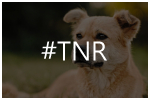
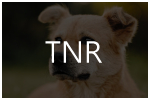
add bottun of top, remove hash tage in homepage

diff --git a/final/index.html b/final/index.html
@@ -18,24 +18,24 @@
 					<ul class="slides">
 						<li data-thumb="images/dog01@thumb">
 							<a href="page.html#about"><img src="images/dog01.jpg" /></a>
-							<a href="page.html#about"><h2 class="flex-caption">#關於交大汪汪社</h2></a>
+							<a href="page.html#about"><h2 class="flex-caption">關於交大汪汪社的二三事</h2></a>
 						</li>
 						<li data-thumb="images/dog02@thumb">
 							<a href="page.html#TNR"><img src="images/dog02.jpg" /></a>
-							<a href="page.html#TNR"><h2 class="flex-caption">#TNR</h2></a>
+							<a href="page.html#TNR"><h2 class="flex-caption">想了解何謂 TNR 嗎？</h2></a>
 						</li>
 						<li data-thumb="images/dog03@thumb">
 							<a href="page.html#postcard"><img src="images/dog03.jpg" /></a>
-							<a href="page.html#postcard"><h2 class="flex-caption">#明信片</h2></a>
+							<a href="page.html#postcard"><h2 class="flex-caption">來看看歷年的明信片吧</h2></a>
 						</li>
 						<li data-thumb="images/dog04@thumb">
 							<a href="page.html#souvenir"><img src="images/dog04.jpg" /></a>
-							<a href="page.html#souvenir"><h2 class="flex-caption">#紀念品</h2></a>
+							<a href="page.html#souvenir"><h2 class="flex-caption">各種紀念品</h2></a>
 						</li>
 					</ul>
 				</div>
 			</div>
-			<p>Click to Enter</p>
+			<p>Copyright&copy; 2016 NCTU Dogs All rights reserved.</p>
 		</section>
 		<div class="background"></div>
 	</body>

diff --git a/final/css/page.css b/final/css/page.css
@@ -6,6 +6,7 @@
     line-height: 36px;
     -webkit-box-sizing: border-box;
     box-sizing: border-box;
+    text-decoration: none;
 }
 
 h1 {
@@ -30,8 +31,8 @@ section {
 
 .icon {
     margin-left: 15px;
-    -webkit-filter:invert(100%);
-    filter:invert(100%);
+    -webkit-filter:invert(60%);
+    filter:invert(60%);
     width: 40px;
     border: 1px solid #1e1e1e;
     border-radius: 20px;
@@ -39,8 +40,8 @@ section {
 }
 
 .icon:hover {
-    -webkit-filter:invert(0%);
-    filter:invert(0%);
+    -webkit-filter:invert(100%);
+    filter:invert(100%);
 }
 
 .title {
@@ -102,10 +103,17 @@ ul {
     width: 100%;
 }
 
-.box img {
+.box a img {
     border-radius: 100px;
     margin: 20px 20px 0 0;
     border: 2px solid #FFF;
+    -webkit-filter:opacity(60%);
+    filter:opacity(60%);
+}
+
+.box a img:hover {
+    -webkit-filter:opacity(100%);
+    filter:opacity(100%);
 }
 
 article {
@@ -123,7 +131,6 @@ article {
 .box article img {
     width: 100%;
     margin: 0;
-    border-radius: 10px;
 }
 
 .box article h2 {
@@ -272,4 +279,17 @@ article {
 footer p {
     text-align:center;
     color:#FFF;
+    font-size: 10px;
+}
+
+.top {
+    position:relative;
+    border-bottom: 1px solid #FFF;
+    z-index:200;
+}
+
+.top:hover {
+    color:#b3ff66;
+    cursor:pointer;
+    font-size:16px;
 }

diff --git a/final/js/page.js b/final/js/page.js
@@ -21,6 +21,9 @@ $(document).ready(function() {
         $("html, body").animate({scrollTop: top_s}, 1000);
         menu_toggle();
     });
+    $(".top").click(function() {
+        $("html, body").animate({scrollTop: 0}, 1000);
+    });
 });
 
 function change_hash(trans) {
@@ -40,7 +43,7 @@ function menu_toggle() {
     var w = $(window).innerWidth();
     var my_width = Math.floor(w/4);
     if (h >= w) {
-        my_width = Math.floor(h/2);
+        my_width = Math.floor(h/4*3);
     }
     var addEvent = "+=";
     var minusEvent = "-=";
@@ -121,7 +124,7 @@ function re_win() {
     }
     else {
         if ($(".menu").hasClass("focus")) {
-            $(".label").outerHeight(Math.floor(h/2));
+            $(".label").outerHeight(Math.floor(h/4*3));
         }
         else {
             $(".label").outerWidth(0);

diff --git a/final/page.html b/final/page.html
@@ -181,6 +181,7 @@
 			</div>
 		</div>
 		<footer>
+			<p class="top">Top</p>
 			<p>Copyright&copy; 2016 NCTU Dogs All rights reserved.</p>
 		</footer>
 	</body>
